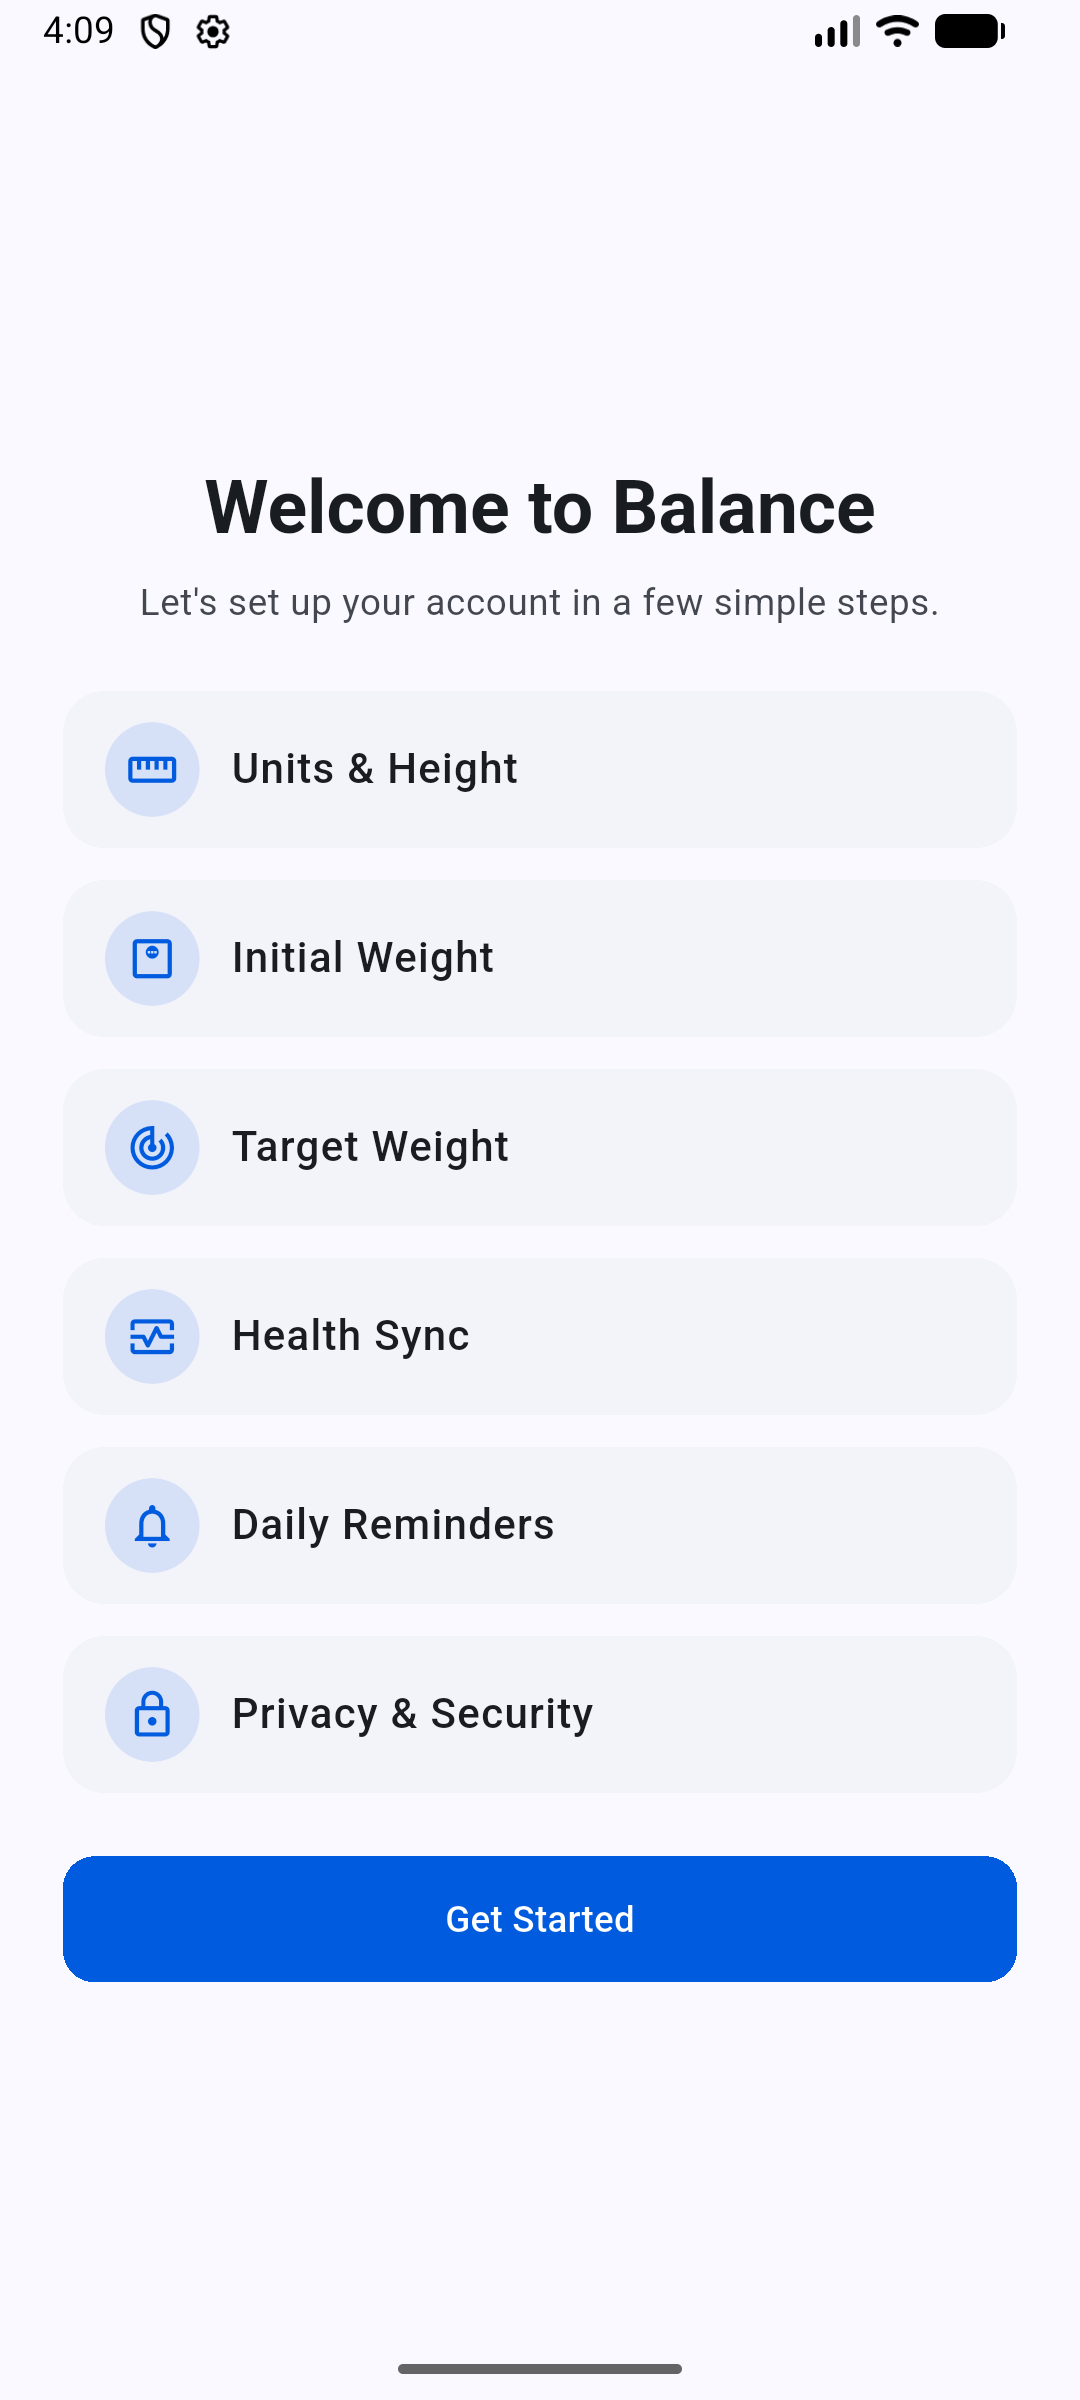
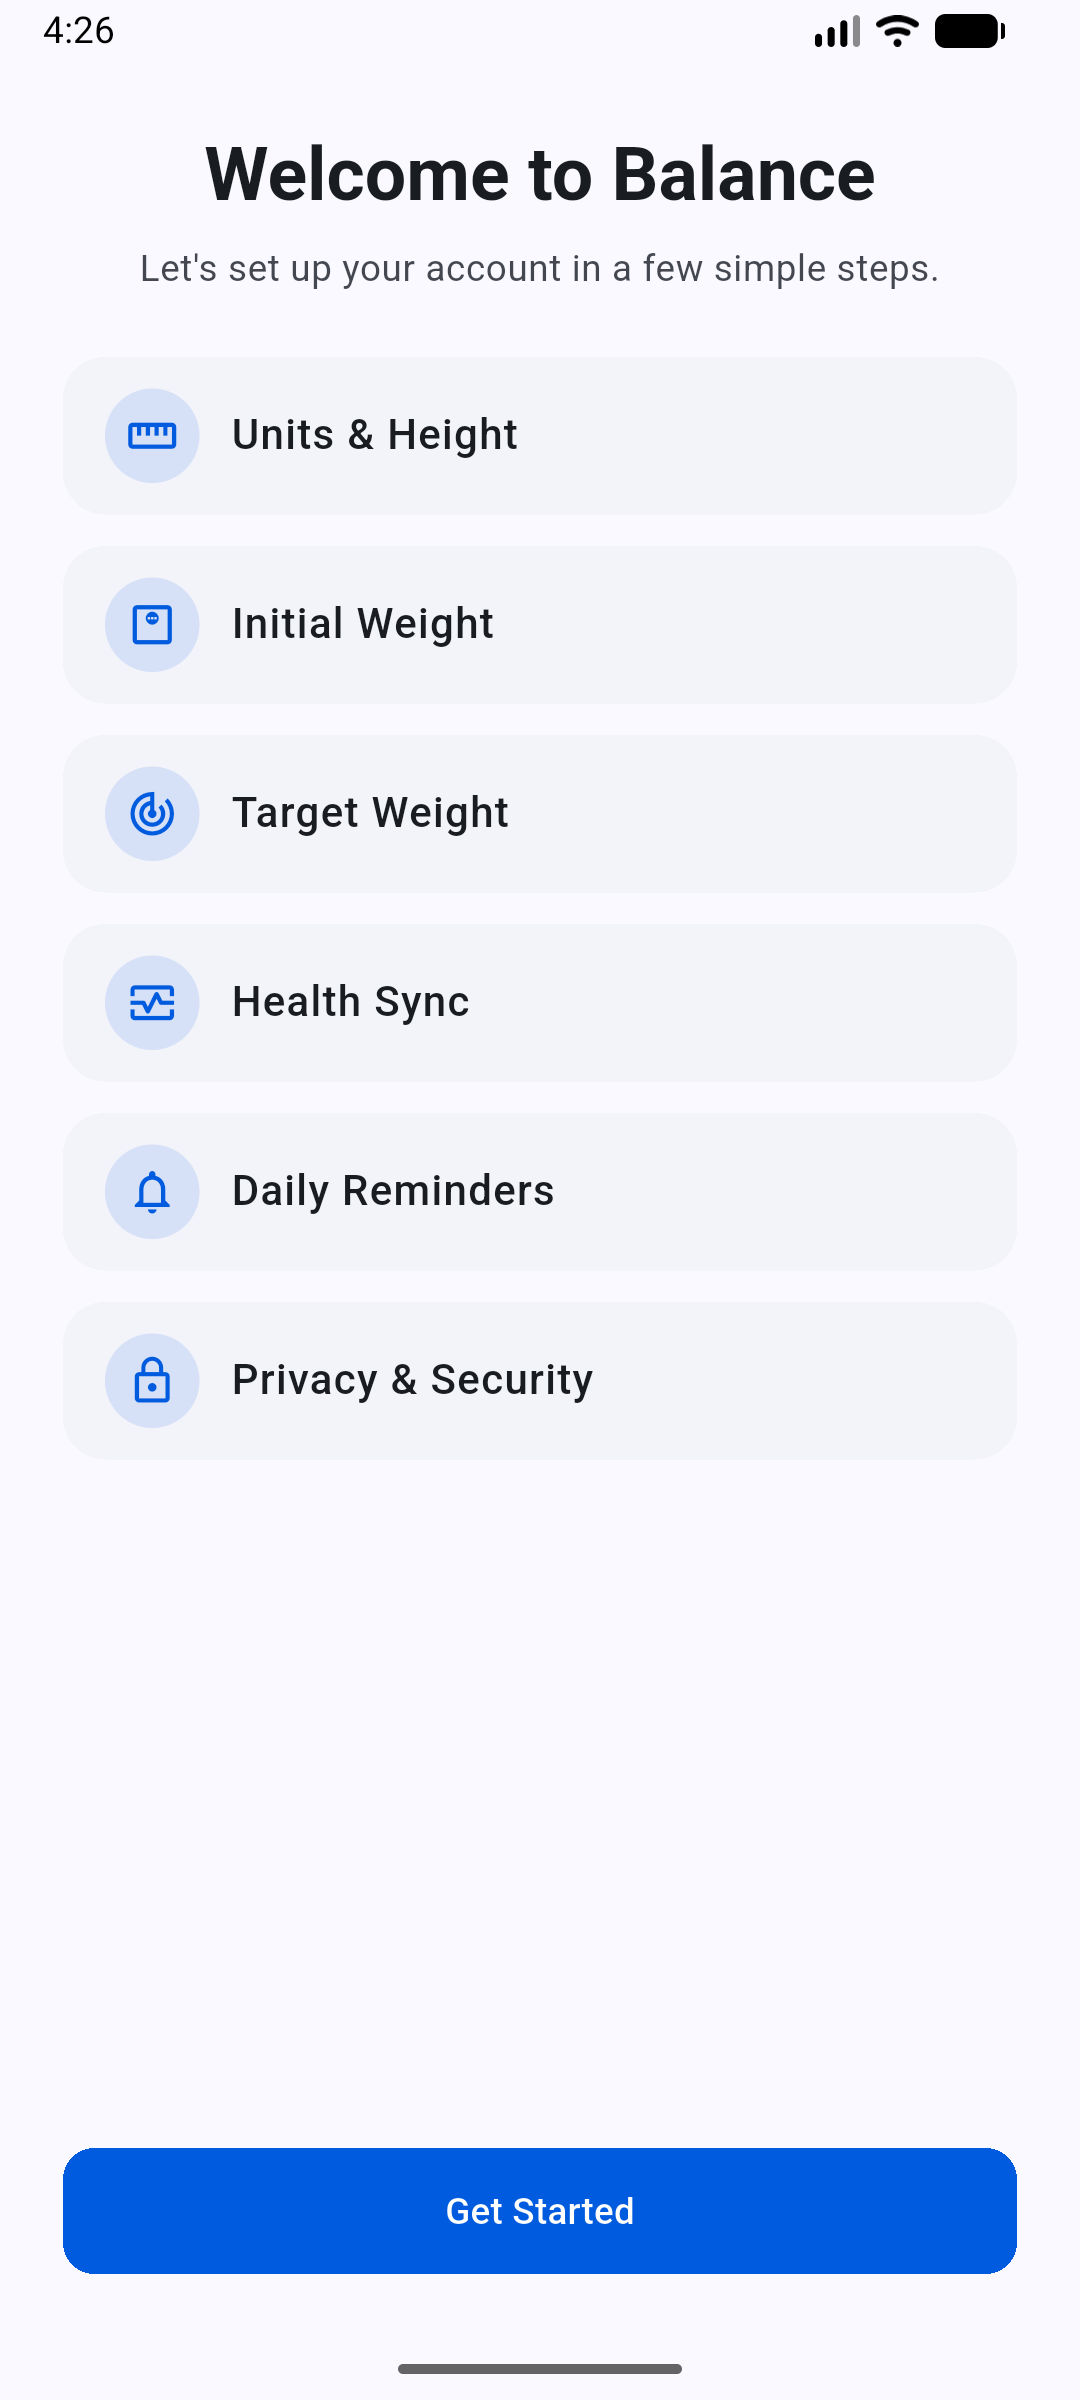
chore: update onboarding assets

diff --git a/README.md b/README.md
@@ -34,9 +34,9 @@
 
 ### Onboarding & Splash
 
-| Splash Screen (Light) | Onboarding Welcome (Light) | CSV History Import (Light) | Splash Screen (Dark) |
-| :---: | :---: | :---: | :---: |
-| <img src=".github/assets/00_splash/splash_light.png" width="180" alt="Splash Light" /> | <img src=".github/assets/01_onboarding/01_welcome_light.png" width="180" alt="Onboarding Welcome Light" /> | <img src=".github/assets/01_onboarding/02_csv_import_light.png" width="180" alt="CSV Import Step Light" /> | <img src=".github/assets/00_splash/splash_dark.png" width="180" alt="Splash Dark" /> |
+| Splash Screen (Light) | Onboarding Welcome (Light) |                                         CSV History Import (Light)                                         | Splash Screen (Dark) |
+| :---: | :---: |:----------------------------------------------------------------------------------------------------------:| :---: |
+| <img src=".github/assets/00_splash/splash_light.png" width="180" alt="Splash Light" /> | <img src=".github/assets/01_onboarding/01_welcome_light.png" width="180" alt="Onboarding Welcome Light" /> | <img src=".github/assets/01_onboarding/03_csv_import_light.png" width="180" alt="CSV Import Step Light" /> | <img src=".github/assets/00_splash/splash_dark.png" width="180" alt="Splash Dark" /> |
 
 ---
 
